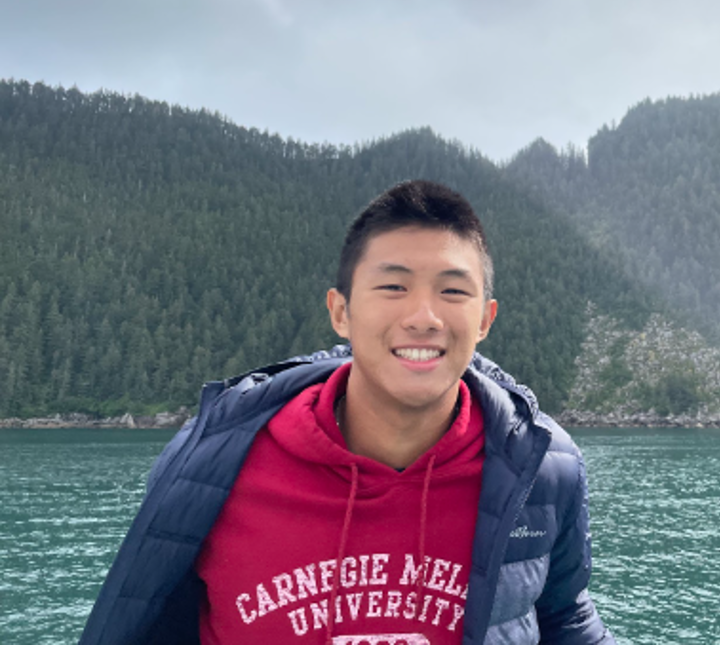
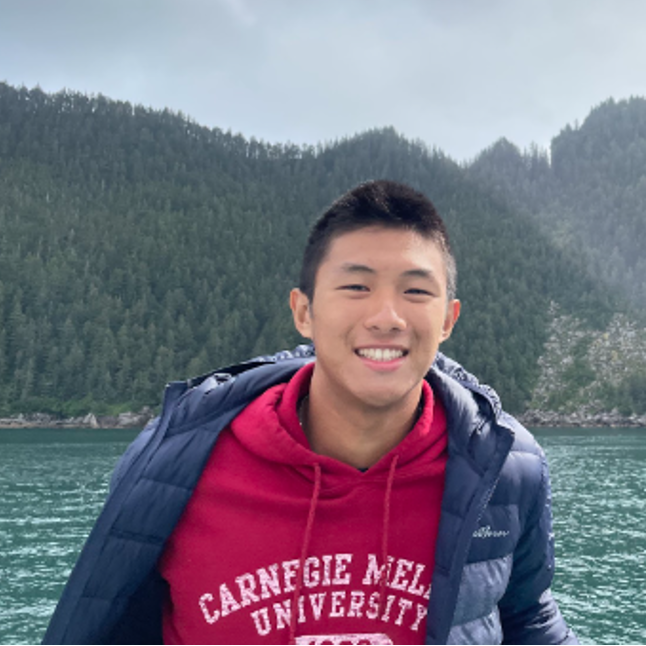
updated board 2024

diff --git a/people.html b/people.html
@@ -233,28 +233,29 @@
                 
                 <div class="row">
                     <div class="three wide column">
-                        <img class="ui small circular image" src="assets/img/board/kobe.png">
+                        <img class="ui small circular image" src="assets/img/board/joanna.jpg">
                     </div>
                     <div class="six wide column">
-                        <div class="ui header">Kobe Zhang</div>
+                        <div class="ui header">Joanna Lumanas</div>
                         <div class="sub header">President</div>
-                        <div class="sub header">Electrical and Computer Engineering, 2024</div>
+                        <div class="sub header">Neuroscience, 2025</div>
                         <p class="bio">
-                            Kobe is a senior in ECE from Boulder, Colorado. Similar to Kawhi Leonard, Kobe is a self proclaimed "fun guy ahhahaa". He is a big Sci-Fi fan and the Interstellar wave scene still lives in his head rent free. During his freetime, you can catch him playing video games with friends or playing sand volleyball because he watched one too many episodes of Haikyuu.                        </p>
+                            Joanna is a junior studying neuroscience in MCS. They're from Westchester, NY and is Filipino :) She has constant boba withdrawals and loves chilling and watching movies with friends. 
+                        </p>
                     </div>
                 </div>
                 <div class="ui horizontal divider"></div>
                 
                 <div class="row">
                     <div class="three wide column">
-                        <img class="ui small circular image" src="assets/img/board/joanna.jpg">
+                        <img class="ui small circular image" src="assets/img/board/ellia.jpg">
                     </div>
                     <div class="six wide column">
-                        <div class="ui header">Joanna Lumanas</div>
+                        <div class="ui header">Ellia Yang</div>
                         <div class="sub header">Vice President</div>
-                        <div class="sub header">Biology/Neuroscience, 2025</div>
+                        <div class="sub header">Computer Science + HCI, 2025</div>
                         <p class="bio">
-                            Joanna is a junior studying bio/neuroscience in MCS. They're from Westchester, NY and is Filipino :) She has constant boba withdrawals and loves chilling and watching movies with friends. 
+                            Ellia is a junior in CS with an additional major in Human-Computer Interaction. She is from Buffalo, NY and loves finding new places to eat in Pittsburgh. She also loves watching kdramas and making excessively long Spotify playlists. 
                         </p>
                     </div>
                 </div>
@@ -262,14 +263,15 @@
 
                 <div class="row">
                     <div class="three wide column">
-                        <img class="ui small circular image" src="assets/img/board/andrew.png">
+                        <img class="ui small circular image" src="assets/img/board/sandra.jpg">
                     </div>
                     <div class="six wide column">
-                        <div class="ui header">Andrew Chong</div>
+                        <div class="ui header">Sandra You</div>
                         <div class="sub header">Secretary</div>
-                        <div class="sub header">Electrical and Computer Engineering + Minor in Robotics, 2024</div>
+                        <div class="sub header">Electrical and Computer Engineering, 2026</div>
                         <p class="bio">
-                            Andrew is a senior from California studying Electrical and Computer Engineering. Outside of class, he likes to be out in nature to watch the squirrels, relax at home and watch squirrel videos or simply listen to music, such as the hit classic: Gray Squirrel by the Learning Station.                        </p>
+                            Sandra is a sophomore from Texas studying Electrical and Computer Engineering. She plays tennis, and likes watching anime and Gaming (capital G).
+                        </p>
                     </div>
                 </div>
                 <div class="ui horizontal divider"></div>
@@ -292,14 +294,15 @@
                
                 <div class="row">
                     <div class="three wide column">
-                        <img class="ui small circular image" src="assets/img/board/ellia.jpg">
+                        <img class="ui small circular image" src="assets/img/board/nia.jpeg">
                     </div>
                     <div class="six wide column">
-                        <div class="ui header">Ellia Yang</div>
+                        <div class="ui header">Nia Lingam</div>
                         <div class="sub header">Marketing Director</div>
-                        <div class="sub header">Computer Science, 2025</div>
+                        <div class="sub header">Biology, 2027</div>
                         <p class="bio">
-                            Ellia is a junior in CS with an additional major in Human-Computer Interaction. She is from Buffalo, NY and loves finding new places to eat in Pittsburgh. She also loves watching kdramas and making excessively long Spotify playlists.                        </p>
+                            Nia is a first year in MCS from Pittsburgh! She's interested in computational bio and medicine. During her free time you can probably find her listening to music and going down Wikipedia rabbit holes. 
+                         </p>
                     </div>
                 </div>
                 
@@ -307,14 +310,15 @@
                 
                 <div class="row">
                     <div class="three wide column">
-                        <img class="ui small circular image" src="assets/img/board/maggie.png">
+                        <img class="ui small circular image" src="assets/img/board/tiffany.jpeg">
                     </div>
                     <div class="six wide column">
-                        <div class="ui header">Maggie Gong</div>
+                        <div class="ui header">Tiffany Yang</div>
                         <div class="sub header">Events Coordinator</div>
-                        <div class="sub header">Electrical and Computer Engineering, 2026</div>
+                        <div class="sub header">Electrical and Computer Engineering, 2027</div>
                         <p class="bio">
-                            Maggie is a sophomore from Vancouver! She is a big musical fan, and Hamilton has always been her favourite. In her free time, she also loves hiking, skiing, exploring food and playing video games.                        </p>
+                            Tiffany is a freshman in ECE from Ohio. She loves napping and binging kdramas 😸
+                        </p>
                     </div>
                 </div>
         
@@ -323,14 +327,14 @@
             
                 <div class="row">
                     <div class="three wide column">
-                        <img class="ui small circular image" src="assets/img/board/sandra.jpg">
+                        <img class="ui small circular image" src="assets/img/board/wasmir.jpeg">
                     </div>
                     <div class="six wide column">
-                        <div class="ui header">Sandra You</div>
+                        <div class="ui header">Wasmir Chowdhury</div>
                         <div class="sub header">Events Coordinator</div>
-                        <div class="sub header">Electrical and Computer Engineering, 2026</div>
+                        <div class="sub header">Mechanical Engineering, 2027</div>
                         <p class="bio">
-                            Sandra is a sophomore from Texas studying Electrical and Computer Engineering. She plays tennis, and likes watching anime and Gaming (capital G).
+                            Wasmir is a freshman studying MechE and Robotics. He has too many interests so he's unable to really focus on any one of them for too long. However, he does read books pretty often.
                         </p>
                     </div>
                 </div>        
@@ -340,42 +344,46 @@
 
                 <div class="row">
                     <div class="three wide column">
-                        <img class="ui small circular image" src="assets/img/board/lillian.jpg">
-                    </div>
-                    <div class="six wide column">
-                        <div class="ui header">Lillian Mei</div>
-                        <div class="sub header">Mentorship Director</div>
-                        <div class="sub header">Environmental Engineering, 2024</div>
-                        <p class="bio">
-                            Lillian is a senior majoring in Environmental Engineering and Engineering and Public Policy. She is from Cary, North Carolina but was born in Arkansas and has also lived in Michigan, Virginia, North Carolina, and now Pennsylvania. In her free time, she enjoys baking, reading, crocheting, playing board games, and exploring food/boba places. She also teaches a StuCo about hand lettering and calligraphy!                        </p>
-                    </div>
-                </div>
-                <div class="ui horizontal divider"></div>
-
-                <div class="row">
-                    <div class="three wide column">
-                        <img class="ui small circular image" src="assets/img/board/athena.png">
-                    </div>
-                    <div class="six wide column">
-                        <div class="ui header">Athena Dai</div>
-                        <div class="sub header">Design Chair</div>
-                        <div class="sub header">Stat/ML, 2023+</div>
-                        <p class="bio">
-                            Athena is a senior studying Stat/ML and from San Jose, California! In her spare time, she likes to draw, listen to Spotify, and watch lots of sitcoms on Netflix (shoutout to Community, Brooklyn99, and Parks and Rec :DD). She also has a crippling addiction to growing succulents and will use the :')) emoji in almost every text. She's also randomly interested in architecture, so if you hang out with her, you will probably witness her pointing at every other building and calling it pretty :>                        </p>
-                    </div>
-                </div>
-                <div class="ui horizontal divider"></div>
-
-                <div class="row">
-                    <div class="three wide column">
                         <img class="ui small circular image" src="assets/img/board/william.png">
                     </div>
                     <div class="six wide column">
                         <div class="ui header">William Wang</div>
-                        <div class="sub header">External Relations Chair</div>
+                        <div class="sub header">Mentorship Director</div>
                         <div class="sub header">Electrical and Computer Engineering, 2025</div>
                         <p class="bio">
-                            William is a junior in ECE from Hsinchu, Taiwan and moved to Austin, Texas during high school. He is on the CMU Men's tennis team and really enjoys sleeping and eating. William has a special interest in eating a lot of food while binge-watching netflix when stressed. Finally, William is the typical asian that has played the piano for his whole life.                        </p>
+                            William is a junior in ECE from Hsinchu, Taiwan and moved to Austin, Texas during high school. He is on the CMU Men's tennis team and really enjoys sleeping and eating. William has a special interest in eating a lot of food while binge-watching netflix when stressed. Finally, William is the typical asian that has played the piano for his whole life.
+                        </p>
+
+                    </div>
+                </div>
+                <div class="ui horizontal divider"></div>
+
+                <div class="row">
+                    <div class="three wide column">
+                        <img class="ui small circular image" src="assets/img/board/katherene.jpg">
+                    </div>
+                    <div class="six wide column">
+                        <div class="ui header">Katherene Qi</div>
+                        <div class="sub header">Design Chair</div>
+                        <div class="sub header">Mechanical Engineering, 2026</div>
+                        <p class="bio">
+                            Katherene is a sophomore majoring in MechE and from Long Island, NY. In her spare time, she likes to read books and Webtoons, cook, and draw/paint. She is a big fan of collecting stickers, washi tape, notebooks, and other stationery items >w<.
+                        </p>
+                    </div>
+                </div>
+                <div class="ui horizontal divider"></div>
+
+                <div class="row">
+                    <div class="three wide column">
+                        <img class="ui small circular image" src="assets/img/board/maggie.png">
+                    </div>
+                    <div class="six wide column">
+                        <div class="ui header">Maggie Gong</div>
+                        <div class="sub header">External Relations Chair</div>
+                        <div class="sub header">Electrical and Computer Engineering, 2026</div>
+                        <p class="bio">
+                            Maggie is a sophomore from Vancouver! She is a big musical fan, and Hamilton has always been her favourite. In her free time, she also loves hiking, skiing, exploring food and playing video games.   
+                        </p>                     
                     </div>
                 </div>
                 <div class="ui horizontal divider"></div>
